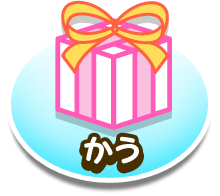
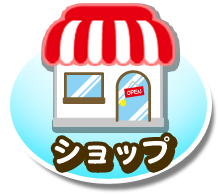
ショップアイコン変更、twitter、facebookのアイコンを追加

diff --git a/www/index.html b/www/index.html
@@ -38,6 +38,9 @@
         <img id="piman" src="img/title/t_pii_a/t_pii_a_00000.png"></img>
         <img id="tomato" src="img/title/t_tom_a/t_tom_a_00000.png"></img>
 
+        <img id="icon_facebook" src="img/title/k_rogo_b000.png"></img>
+        <img id="icon_twitter" src="img/title/k_rogo_c000.png"></img>
+
         <img id="gohan" src="img/title/t_btn_a000.png" onClick=goGohan()></img>
         <img id="stamp" src="img/title/t_btn_b000.png" onClick=goStamp()></img>
         <img id="help" src="img/title/t_btn_c000.png" onClick=goHelp()></img>

diff --git a/www/index.css b/www/index.css
@@ -83,6 +83,20 @@ body {
     left:  500px;
 }
 
+#icon_facebook {
+    position: fixed;
+    z-index: 5;
+    top:   10px;
+    left:  10px;
+}
+
+#icon_twitter {
+    position: fixed;
+    z-index: 5;
+    top:   10px;
+    left:  70px;
+}
+
 #select_serifuwaku {
     position: fixed;
     z-index: 2;
@@ -234,5 +248,5 @@ body {
     position: fixed;
     z-index: 10;
     top: 0px;
-    left: 0px;
+    left: 500px;
 }
